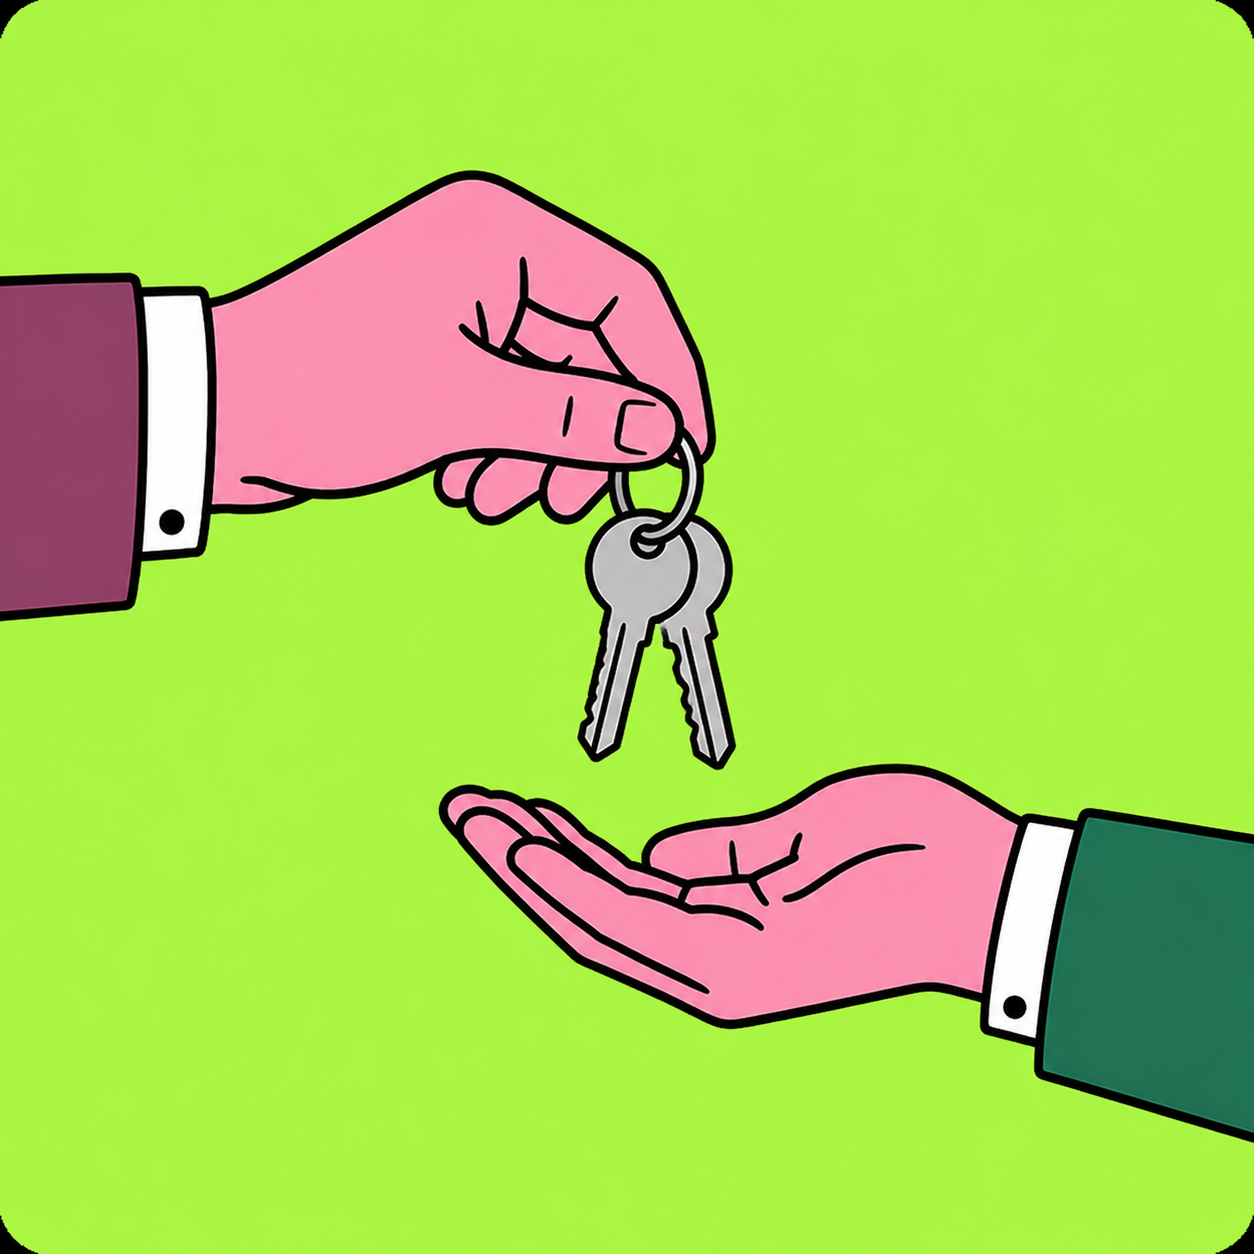
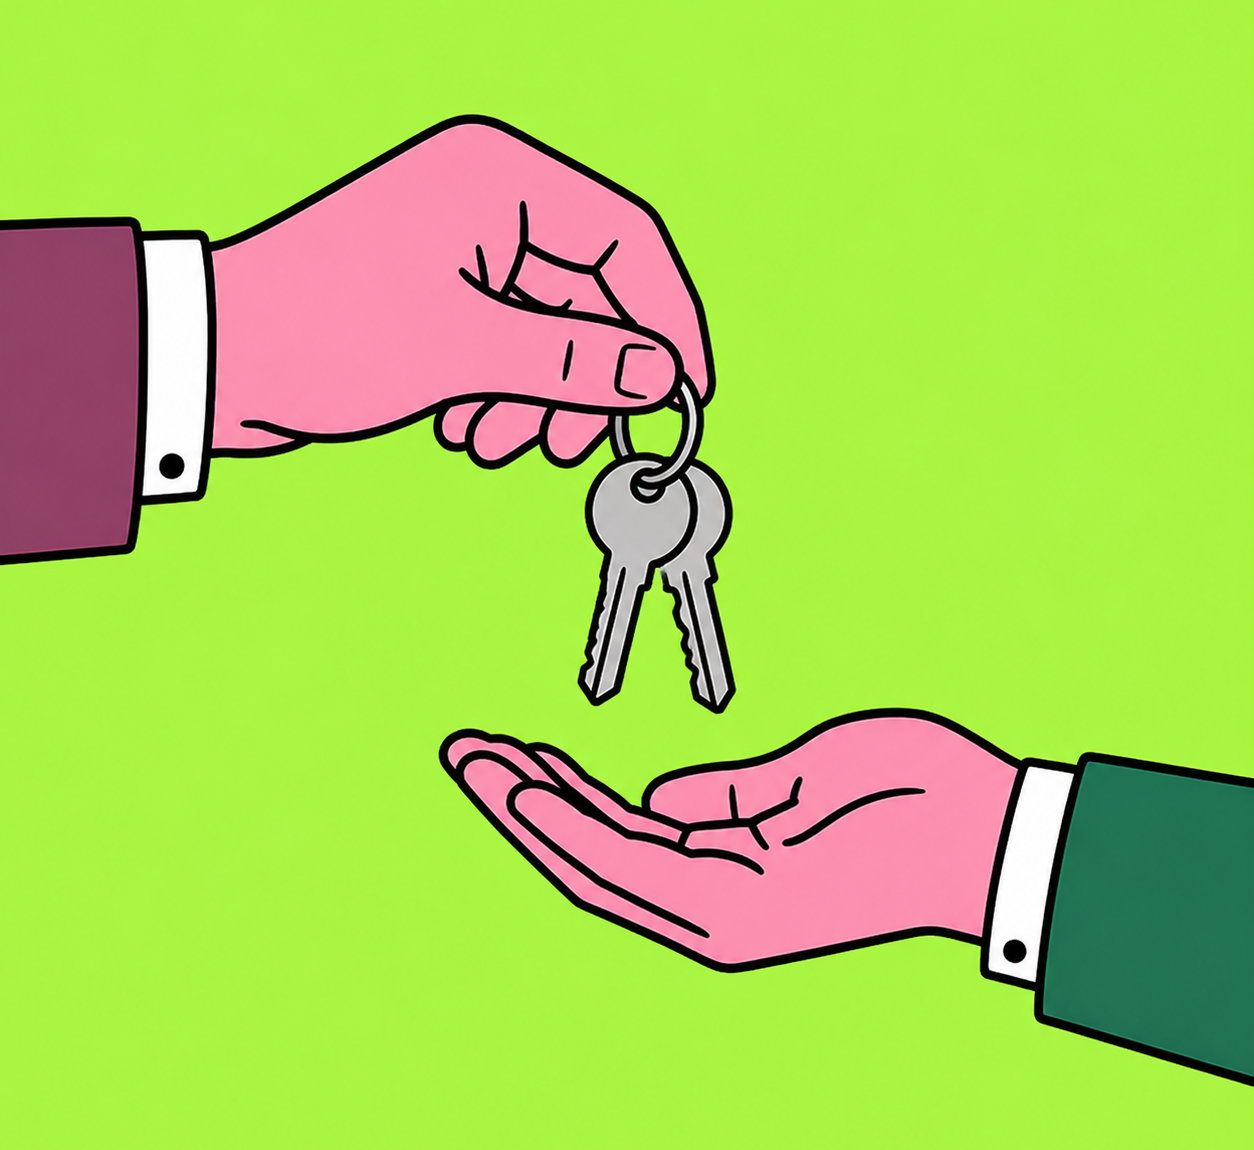
feat(opal): VAU profile polish — subcopy size, keys image, copy fixes
- Match "My pitch" and "What I do" subcopy to description font size
- Replace keys.png with clean version, remove mix-blend-mode
- Remove period from Randy pitch subcopy

diff --git a/app/opal/virtual-teammates/[id]/page.tsx b/app/opal/virtual-teammates/[id]/page.tsx
@@ -1189,8 +1189,8 @@ export default function VAUDetailPage() {
 							<Text style={{ fontFamily: "var(--ax-font-family-headings)", fontSize: 20, fontWeight: 600, lineHeight: "1.1", letterSpacing: "0.4px", color: "#202320" }}>
 								My pitch
 							</Text>
-							<Text fontSize="sm" color="fg.tertiary">
-								{vau.pitchSubcopy ?? "Here's how Randy's will make your week easier."}
+							<Text fontSize="md" color="fg.tertiary" style={{ lineHeight: "1.5", letterSpacing: "0.32px" }}>
+								{vau.pitchSubcopy ?? "Here's how Randy's will make your week easier"}
 							</Text>
 						</Box>
 						<Box display="flex" gap="16">
@@ -1223,7 +1223,7 @@ export default function VAUDetailPage() {
 							<Text style={{ fontFamily: "var(--ax-font-family-headings)", fontSize: 20, fontWeight: 600, lineHeight: "1.1", letterSpacing: "0.4px", color: "#202320" }}>
 								What I do
 							</Text>
-							<Text fontSize="sm" color="fg.tertiary">
+							<Text fontSize="md" color="fg.tertiary" style={{ lineHeight: "1.5", letterSpacing: "0.32px" }}>
 								Things {vau.characterName ?? vau.name} handles on your behalf
 							</Text>
 						</Box>
